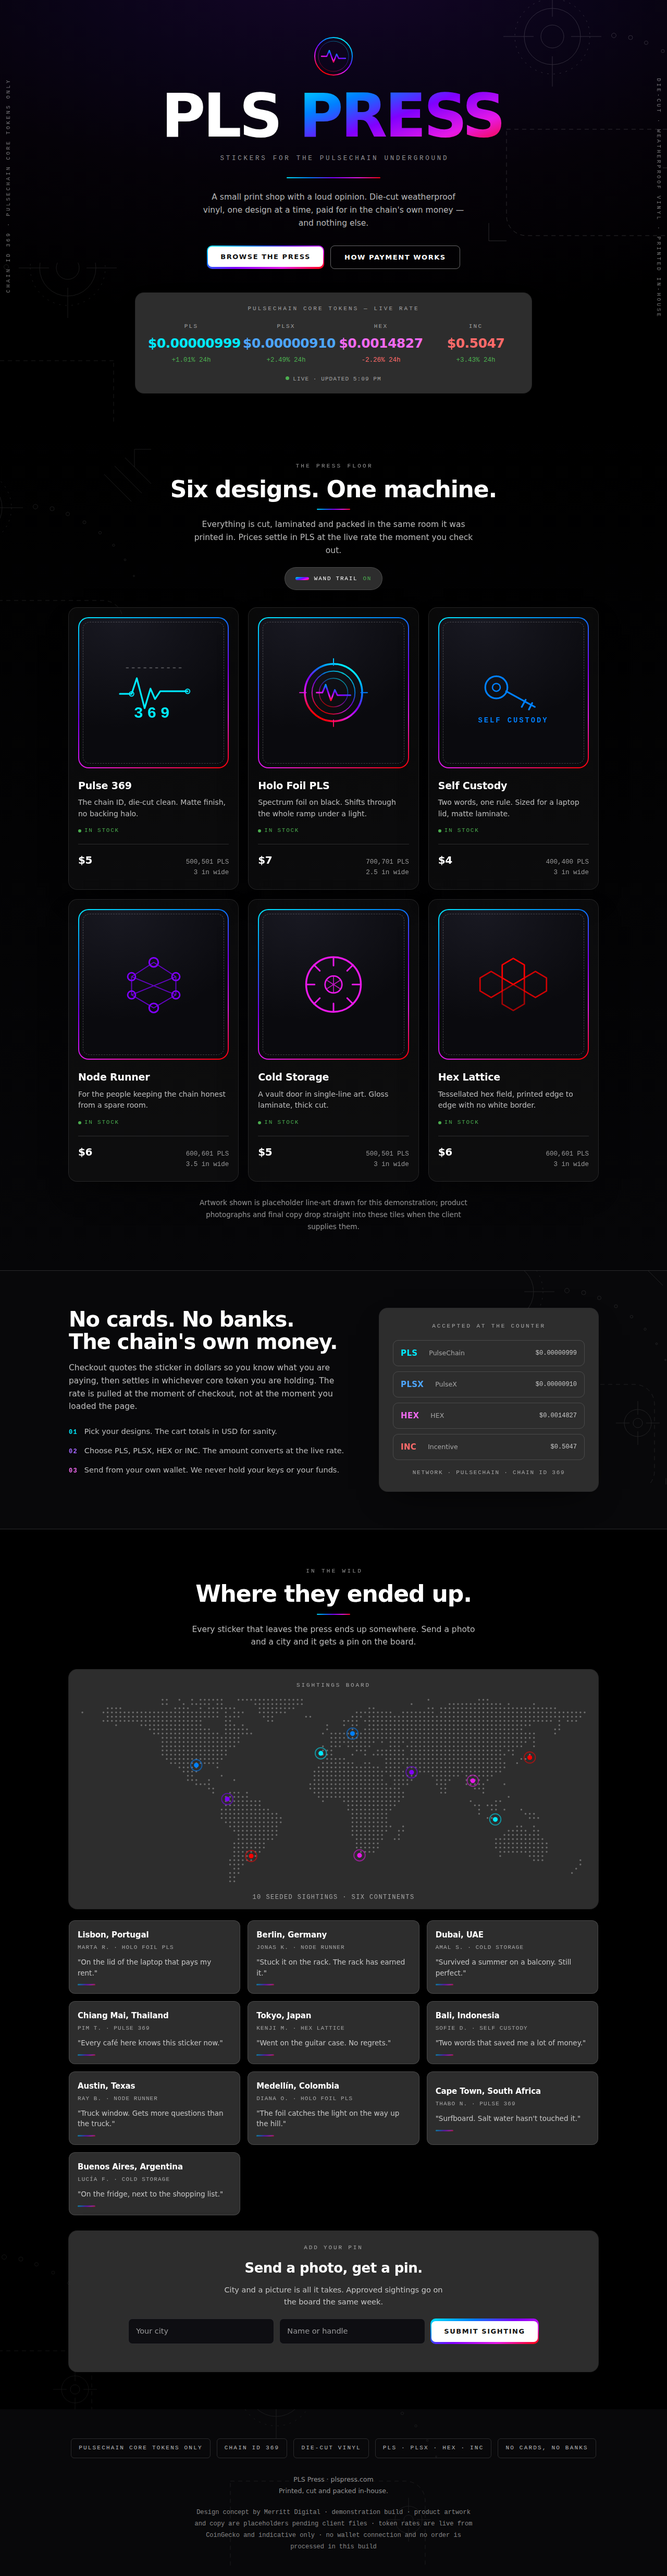
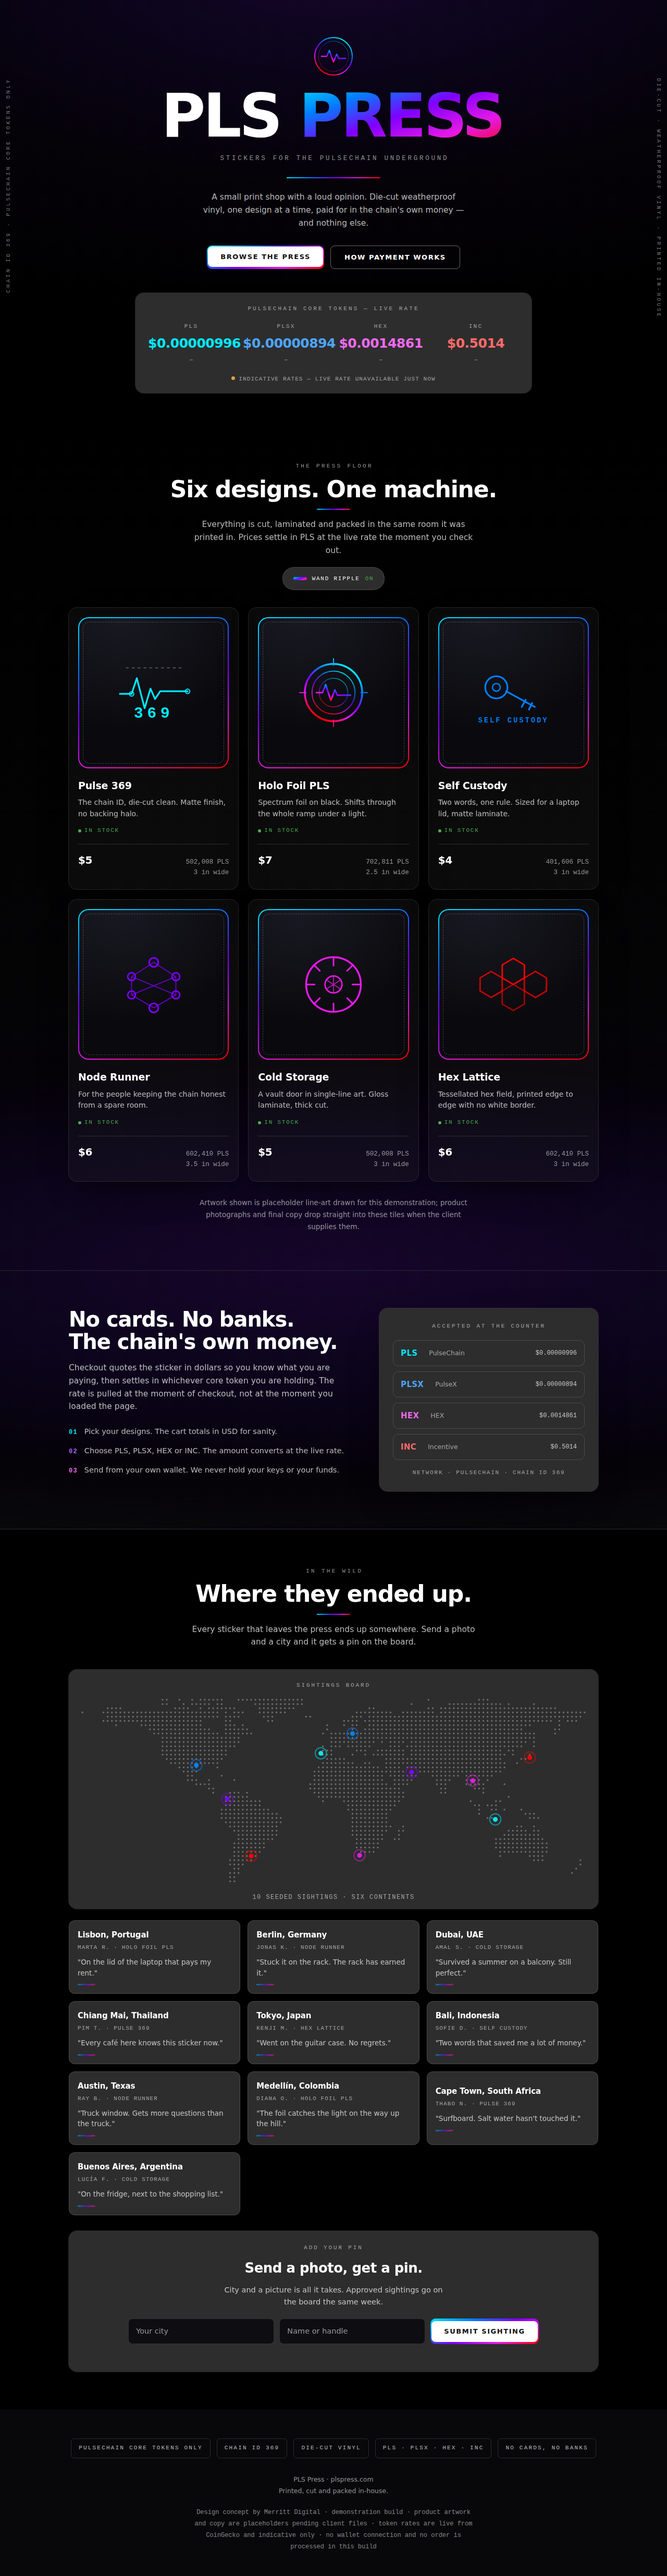
backgrounds + ripple: drop the press-bed ornament, bloom the midpoint, retire the trail
Three client-directed changes.

1. Remove the faint press-bed ornament — the six .press-mark placements, the
   shared #press-motif defs and the .press-mark CSS. The hero gradient is
   untouched.

2. Add a second gradient at the page midpoint, on the hero's own stops. The
   document midpoint falls on the #press -> .counter seam at every gated width,
   so it is drawn as two halves of one ellipse (--mid-bloom-up on #press,
   --mid-bloom-down on .counter) with a FIXED vertical radius, so both halves
   match despite the sections' very different heights. First pass: four tokens
   at the top of the stylesheet tune or revert it in one edit.

   A var() inside a custom property resolves against the element that declares
   it, so the first cut -- one --mid-bloom parameterised by an overridable
   --mid-anchor -- silently bloomed at the centre of #press instead of its
   edge. Pixel-probed after the fix: symmetric about the seam, no seam artefact.

3. Wand trail -> wand ripple. Same canvas, toggle, persistence and
   reduced-motion default; the draw is now discrete expanding rings (two
   concentric strokes, inner one lagging, crest fading as the ring escapes it)
   spawned only once the pointer has travelled 26px, which is what keeps it
   from collapsing back into a trail.

Also fixes a pre-existing dead control: .wand-toggle ships [hidden], but its
own display:inline-flex outranked the UA [hidden] rule, so with JS off the
button rendered and did nothing.
[…]

Changed region(s): [[0.0625, 0.4674, 0.9375, 0.5297]]

diff --git a/index.html b/index.html
@@ -27,6 +27,20 @@
     --sans:-apple-system,'SF Pro Display','Segoe UI',system-ui,'Helvetica Neue',Arial,sans-serif;
     --mono:ui-monospace,'SF Mono','Cascadia Mono','Roboto Mono',Menlo,Consolas,monospace;
     --settle:cubic-bezier(.22,.61,.36,1);
+  /* ── SECOND GRADIENT · midpoint bloom (FIRST PASS — tune these four tokens,
+     or delete this block plus the two `--mid-bloom-*` background layers on
+     #press and .counter to revert cleanly. Same stops as the hero gradient.) */
+  --mid-1:#16062B; --mid-2:#0A0418; --mid-3:#050208;
+  /* Width tracks the section, height is FIXED — both sections are full-bleed, so a
+     fixed vertical radius makes the two halves meet as one ellipse on the seam.
+     Two tokens rather than one parameterised by the anchor: a var() inside a custom
+     property resolves against the element that DECLARES it (:root here), so an
+     anchor overridden further down the tree would never be seen. */
+  --mid-spread:160% 520px;
+  --mid-bloom-up:radial-gradient(var(--mid-spread) at 50% 100%,
+    var(--mid-1) 0%, var(--mid-2) 48%, var(--mid-3) 76%, transparent 100%);
+  --mid-bloom-down:radial-gradient(var(--mid-spread) at 50% 0%,
+    var(--mid-1) 0%, var(--mid-2) 48%, var(--mid-3) 76%, transparent 100%);
   }
   *{box-sizing:border-box;margin:0;padding:0}
   html{scroll-behavior:smooth}
@@ -41,9 +55,6 @@
   /* ── FOIL: gradient-clipped text. Capped at 2 elements per page (kit rule) ── */
   .foil{background:var(--foil);-webkit-background-clip:text;background-clip:text;color:transparent}
 
-  /* ── PRESS-BED ORNAMENT (§3.4 technique, press vocabulary) ── */
-  .press-mark{position:absolute;pointer-events:none;color:var(--ink);opacity:.16}
-  .press-mark svg{display:block}
 
   /* ── THE WINDOW: matte sticker backing (#2D2D2D) on pure black ── */
   .window{background:var(--field-panel);border-radius:16px;
@@ -103,7 +114,7 @@
   .rule-foil{width:64px;height:2px;margin:14px auto 0;background:var(--foil);border-radius:2px}
 
   /* ── THE PRESS FLOOR: sticker grid ── */
-  #press{background:linear-gradient(180deg,var(--field) 0%,#060608 100%)}
+  #press{background:var(--mid-bloom-up), linear-gradient(180deg,var(--field) 0%,#060608 100%)}
   #wand{position:absolute;inset:0;z-index:1;pointer-events:none;opacity:0;
     transition:opacity .3s var(--settle)}
   .press-inner{position:relative;z-index:2}
@@ -112,6 +123,9 @@
     color:var(--ink);border:1px solid var(--hair);border-radius:999px;padding:12px 20px;
     font-family:var(--mono);font-size:11px;letter-spacing:.16em;text-transform:uppercase;
     cursor:pointer;min-height:44px}
+  /* display:inline-flex above outranks the UA [hidden] rule — without this the
+     control is visible but dead when JS never arrives to bind it. */
+  .wand-toggle[hidden]{display:none}
   .wand-toggle .swatch{width:26px;height:6px;border-radius:3px;background:var(--foil);opacity:.35;
     transition:opacity .2s var(--settle)}
   .wand-toggle[aria-pressed="true"] .swatch{opacity:1}
@@ -120,7 +134,7 @@
 
   .shelf{display:grid;grid-template-columns:repeat(auto-fit,minmax(262px,1fr));gap:20px;
     position:relative;z-index:2}
-  /* 20% opaque card face — the near-black press bed and the wand trail read through it.
+  /* 20% opaque card face — the near-black press bed and the wand ripple reads through it.
      Only the backing is translucent; type and artwork stay fully opaque. */
   .item{padding:18px 18px 22px;display:flex;flex-direction:column;
     background:rgba(45,45,45,.2)}
@@ -150,7 +164,7 @@
     font-size:13.5px;line-height:1.7;color:var(--ink-faint);position:relative;z-index:2}
 
   /* ── THE COUNTER: payment band ── */
-  .counter{background:var(--field-deep);border-top:1px solid var(--hair);border-bottom:1px solid var(--hair)}
+  .counter{background:var(--mid-bloom-down), var(--field-deep);border-top:1px solid var(--hair);border-bottom:1px solid var(--hair)}
   .counter-grid{display:grid;grid-template-columns:1.15fr .85fr;gap:28px;align-items:stretch;
     position:relative;z-index:2}
   @media(max-width:840px){.counter-grid{grid-template-columns:1fr}}
@@ -247,26 +261,6 @@
       <stop offset=".4974" stop-color="#8000FF"/><stop offset=".7499" stop-color="#E619E6"/>
       <stop offset=".9991" stop-color="#FF0000"/>
     </linearGradient>
-    <g id="press-motif" stroke="currentColor" fill="none" stroke-width="1">
-      <!-- registration target -->
-      <circle cx="150" cy="140" r="54"/><circle cx="150" cy="140" r="22"/>
-      <circle cx="150" cy="140" r="72" stroke-dasharray="3 9"/>
-      <path d="M150 44v58M150 178v58M56 140h58M186 140h58"/>
-      <!-- crop marks -->
-      <path d="M28 62V28h34M492 28h-34v34M28 498v34h34M492 532h-34v-34"/>
-      <!-- plotter cut path -->
-      <path d="M62 318h336a38 38 0 0 1 38 38v128a38 38 0 0 1-38 38H100a38 38 0 0 1-38-38z"
-            stroke-dasharray="8 7"/>
-      <!-- halftone arc -->
-      <circle cx="330" cy="152" r="3.5"/><circle cx="362" cy="168" r="3"/><circle cx="392" cy="188" r="2.6"/>
-      <circle cx="418" cy="212" r="2.2"/><circle cx="440" cy="240" r="1.8"/><circle cx="457" cy="271" r="1.4"/>
-      <circle cx="300" cy="142" r="4"/><circle cx="268" cy="138" r="4.4"/>
-      <!-- trim hatch -->
-      <path d="M420 60l52 52M440 44l52 52M400 76l52 52"/>
-      <!-- second, smaller target -->
-      <circle cx="404" cy="392" r="26"/><circle cx="404" cy="392" r="9"/>
-      <path d="M404 350v26M404 408v26M362 392h26M420 392h26"/>
-    </g>
   </defs>
 </svg>
 
@@ -274,12 +268,6 @@
   <div class="edge-text edge-l">Chain ID 369 · PulseChain core tokens only</div>
   <div class="edge-text edge-r">Die-cut · weatherproof vinyl · printed in-house</div>
 
-  <div class="press-mark" style="right:-150px;top:-70px" aria-hidden="true">
-    <svg width="520" height="560" viewBox="0 0 520 560"><use href="#press-motif"/></svg>
-  </div>
-  <div class="press-mark" style="left:-190px;bottom:-120px;opacity:.1;transform:scaleX(-1)" aria-hidden="true">
-    <svg width="430" height="430" viewBox="40 130 430 430"><use href="#press-motif"/></svg>
-  </div>
 
   <div class="wrap hero">
     <div class="crest">
@@ -327,9 +315,6 @@
 <!-- ══ THE PRESS FLOOR ══ -->
 <section id="press">
   <canvas id="wand" aria-hidden="true"></canvas>
-  <div class="press-mark" style="left:-170px;top:40px;opacity:.1" aria-hidden="true">
-    <svg width="460" height="500" viewBox="30 20 460 500"><use href="#press-motif"/></svg>
-  </div>
 
   <div class="wrap press-inner">
     <div class="sec-head reveal">
@@ -343,7 +328,7 @@
     <div class="wand-bar">
       <button type="button" class="wand-toggle" id="wand-toggle" aria-pressed="false" hidden>
         <span class="swatch" aria-hidden="true"></span>
-        Wand trail <span class="wand-state">OFF</span>
+        Wand ripple <span class="wand-state">OFF</span>
       </button>
     </div>
 
@@ -467,9 +452,6 @@
 
 <!-- ══ THE COUNTER ══ -->
 <section class="counter" id="counter">
-  <div class="press-mark" style="right:-160px;top:-60px;opacity:.1" aria-hidden="true">
-    <svg width="440" height="470" viewBox="180 40 440 470"><use href="#press-motif"/></svg>
-  </div>
   <div class="wrap">
     <div class="counter-grid">
       <div class="pitch reveal">
@@ -504,9 +486,6 @@
 
 <!-- ══ IN THE WILD ══ -->
 <section id="wild">
-  <div class="press-mark" style="left:-200px;bottom:-140px;opacity:.08" aria-hidden="true">
-    <svg width="480" height="480" viewBox="60 90 480 480"><use href="#press-motif"/></svg>
-  </div>
   <div class="wrap">
     <div class="sec-head reveal">
       <div class="kicker">In the wild</div>
@@ -590,9 +569,6 @@
 </section>
 
 <footer>
-  <div class="press-mark" style="left:50%;top:-120px;margin-left:-260px;opacity:.08" aria-hidden="true">
-    <svg width="520" height="420" viewBox="0 60 520 420"><use href="#press-motif"/></svg>
-  </div>
   <div class="wrap">
     <div class="hallmarks">
       <div class="hallmark">PulseChain core tokens only</div>
@@ -676,7 +652,7 @@
   });
 })();
 
-/* ── WAND TRAIL (the one hero moment, §5.0.5) ────────────────────────────── */
+/* ── WAND RIPPLE (the one hero moment, §5.0.5) ───────────────────────────── */
 (function(){
   var sec = document.getElementById('press');
   var cv  = document.getElementById('wand');
@@ -686,8 +662,9 @@
   var ctx = cv.getContext('2d');
   var reduce = window.matchMedia ? window.matchMedia('(prefers-reduced-motion: reduce)') : {matches:false};
   var STOPS = ['#00EAFF','#0080FF','#8000FF','#E619E6','#FF0000'];
-  var LIFE = 700;
-  var pts = [], raf = 0, on = false, w = 0, h = 0;
+  var LIFE = 900;          /* a ripple wants longer to spread than a trail did */
+  var GAP  = 26;           /* min pointer travel between ripples, in px */
+  var pts = [], raf = 0, on = false, w = 0, h = 0, lx = -1e4, ly = -1e4, seq = 0;
 
   function load(){ try { return localStorage.getItem('plspress-wand'); } catch(e){ return null; } }
   function save(v){ try { localStorage.setItem('plspress-wand', v); } catch(e){} }
@@ -704,34 +681,35 @@
 
   function draw(){
     raf = 0;
-    var now = performance.now(), i, p, age;
+    var now = performance.now(), i, p, age, e, r, k;
     for (i = pts.length - 1; i >= 0; i--) if (now - pts[i].t > LIFE) pts.splice(i, 1);
     ctx.clearRect(0, 0, w, h);
 
-    if (pts.length > 1) {
-      ctx.lineCap = 'round'; ctx.lineJoin = 'round';
-      for (i = 1; i < pts.length; i++) {
-        var a = pts[i-1], b = pts[i];
-        age = (now - b.t) / LIFE;
-        var g = ctx.createLinearGradient(a.x, a.y, b.x, b.y);
-        g.addColorStop(0, STOPS[i % 5]);
-        g.addColorStop(1, STOPS[(i + 1) % 5]);
-        ctx.strokeStyle = g;
-        ctx.globalAlpha = Math.max(0, 1 - age) * 0.85;
-        ctx.lineWidth = Math.max(1, 11 * (1 - age));
-        ctx.beginPath(); ctx.moveTo(a.x, a.y); ctx.lineTo(b.x, b.y); ctx.stroke();
+    ctx.lineCap = 'round';
+    for (i = 0; i < pts.length; i++) {
+      p = pts[i];
+      age = (now - p.t) / LIFE;
+      if (age < 0 || age > 1) continue;
+      e = 1 - Math.pow(1 - age, 3);          /* spreads fast, then eases out */
+      /* two concentric rings, the inner one lagging — that lag is what reads
+         as a ripple rather than a dot that grew. */
+      for (k = 0; k < 2; k++) {
+        r = (7 + p.r * e) - k * 13;
+        if (r <= 0.5) continue;
+        ctx.strokeStyle = STOPS[(p.i + k) % 5];
+        ctx.globalAlpha = Math.max(0, 1 - age) * (k ? 0.30 : 0.62);
+        ctx.lineWidth = Math.max(0.6, (k ? 1.4 : 2.6) * (1 - age));
+        ctx.beginPath(); ctx.arc(p.x, p.y, r, 0, 6.2832); ctx.stroke();
       }
-      for (i = 0; i < pts.length; i += 2) {
-        p = pts[i]; age = (now - p.t) / LIFE;
-        if (age > 1) continue;
-        ctx.globalAlpha = (1 - age) * 0.75;
-        ctx.fillStyle = STOPS[i % 5];
-        ctx.beginPath();
-        ctx.arc(p.x + p.dx * age * 30, p.y + p.dy * age * 30, Math.max(0, 2.4 * (1 - age)), 0, 6.2832);
-        ctx.fill();
+      /* the crest: a soft fill that fades out as the ring escapes it */
+      if (age < 0.55) {
+        ctx.globalAlpha = (0.55 - age) * 0.5;
+        ctx.fillStyle = STOPS[p.i % 5];
+        ctx.beginPath(); ctx.arc(p.x, p.y, 5 * (1 - age / 0.55), 0, 6.2832); ctx.fill();
       }
-      ctx.globalAlpha = 1;
     }
+    ctx.globalAlpha = 1;
+
     if (pts.length) raf = requestAnimationFrame(draw);
   }
 
@@ -740,14 +718,18 @@
     var r = sec.getBoundingClientRect();
     var x = e.clientX - r.left, y = e.clientY - r.top;
     if (x < 0 || y < 0 || x > w || y > h) return;
-    pts.push({x:x, y:y, t:performance.now(), dx:(Math.random()-0.5), dy:(Math.random()-0.5)-0.45});
-    if (pts.length > 28) pts.shift();
+    /* discrete drops, not a smear: only ring out once the pointer has actually
+       travelled. Without this it degenerates back into a trail. */
+    if ((x - lx) * (x - lx) + (y - ly) * (y - ly) < GAP * GAP) return;
+    lx = x; ly = y;
+    pts.push({x:x, y:y, t:performance.now(), r:46 + Math.random() * 26, i:(seq++) % 5});
+    if (pts.length > 14) pts.shift();
     if (!raf) raf = requestAnimationFrame(draw);
   }
 
   function stop(){
     if (raf) { cancelAnimationFrame(raf); raf = 0; }
-    pts = []; ctx.clearRect(0, 0, w, h);
+    pts = []; lx = ly = -1e4; ctx.clearRect(0, 0, w, h);
   }
 
   function set(v){

diff --git a/DESIGN-NOTES.md b/DESIGN-NOTES.md
@@ -39,9 +39,10 @@ holographic foil. A holo foil is a sticker. That is the whole design.
 3. **Green affirm chip** → in-stock badges, footer hallmarks, the live-feed dot. Their own device.
 4. **Kiss-cut die line** → dashed contour inset on every sticker face; peel-lift on
    hover/focus/active (`translateY(-5px) rotate(-1.2deg)`).
-5. **Press-bed ornament** → §3.4 technique with a press vocabulary instead of filigree: registration
-   targets, crop marks, plotter cut-paths, halftone arcs. One motif (`#press-motif`), deployed
-   5× at different crops/mirrors/opacities (.16 → .10 → .08).
+5. ~~**Press-bed ornament**~~ → *removed 2026-08-27 at the client's request.* It was the §3.4
+   technique in a press vocabulary — registration targets, crop marks, plotter cut-paths, halftone
+   arcs, one motif deployed 5× at .16 → .08. The grammar now carries on the die lines, the foil
+   edges and the halftone map alone. Restore with `git revert` if it is wanted back.
 6. **Voice inversion** — the bridge uses zero serif and the client asked for a large bold header,
    so **heavy system sans = things of value, mono = apparatus**. This deliberately inverts the
    kit's serif-is-value rule of thumb, per §III's adaptation clause. System stacks only (law 3).
@@ -60,6 +61,27 @@ holographic foil. A holo foil is a sticker. That is the whole design.
 - **Simple, easy to use** — one screen per idea, six products, no menus, no cart ceremony.
 - **PulseChain core tokens only** — PLS, PLSX, HEX, INC, chain ID 369, priced live.
 
+## Background & motion revisions (2026-08-27, client-directed)
+
+1. **Ornament removed** (above). Nothing else about the backgrounds changed — the hero gradient is
+   untouched.
+2. **A second gradient at the page midpoint.** The document midpoint lands on the `#press` →
+   `.counter` seam at every gated width (1280: seam 2435 / mid 2471; 390: seam 4947 / mid 4481,
+   inside the bloom's 520px reach). It is drawn as two halves of one ellipse — `--mid-bloom-up`
+   anchored to the bottom of `#press`, `--mid-bloom-down` to the top of `.counter` — sharing the
+   hero's exact stops. The vertical radius is a **fixed length**, not a percentage, so both halves
+   are the same size and meet cleanly despite the two sections having very different heights.
+   **First pass:** the four tokens (`--mid-1..3`, `--mid-spread`) sit together at the top of the
+   stylesheet; tune or delete them to adjust or revert.
+   *Gotcha worth keeping:* a `var()` inside a custom property resolves against the element that
+   **declares** it, so a single `--mid-bloom` parameterised by an overridable `--mid-anchor` silently
+   used `:root`'s value and bloomed at the centre of `#press` instead of its edge. Two tokens, not one.
+3. **Wand trail → wand ripple.** Same canvas, same toggle, same persistence and reduced-motion
+   defaults; the drawing changed from a tapering gradient polyline to discrete expanding rings —
+   two concentric strokes with the inner one lagging, plus a crest that fades as the ring escapes
+   it. Ripples only spawn once the pointer has travelled 26px, which is what stops it collapsing
+   back into a trail. `LIFE` 700ms → 900ms.
+
 ## Law 4 — the live element
 
 CoinGecko keyless (`access-control-allow-origin: *`), ids `pulsechain`, `pulsex`, `hex`,
@@ -73,11 +95,11 @@ live rate**. Seeded values in markup; every write guarded; both terminal states 
 |---|---|
 | Three-viewport width law | 390/834/1280 — `scrollWidth` == viewport exactly, 0 JS errors |
 | Single file, zero dependencies | 59kB, one file, no CDN/webfont/build step |
-| CWV (390, 4× CPU throttle, worst of 3) | **LCP 464ms**, **CLS 0.0040**, flat through a full scroll cycle |
-| JS disabled | 6 products, 10 sightings, 10 pins, 1,672 map dots, seeded prices, no dead controls |
+| CWV (390, 4× CPU throttle, worst of 3) | **LCP 356ms**, **CLS 0.0000**, flat through a full scroll cycle |
+| JS disabled | 6 products, 10 sightings, 10 pins, 1,672 map dots, seeded prices, wand control genuinely `display:none` |
 | `prefers-reduced-motion` | 12 reveals all land on end-states, wand defaults off, canvas opacity 0 |
 | Touch targets @390 | every interactive element ≥44px tall |
-| Slop gate (`impeccable@3.3.1`) | 9 findings, all three categories documented in `.impeccable/config.json`; every genuine finding fixed |
+| Slop gate (`impeccable@3.3.1`) | 10 findings, all four categories documented in `.impeccable/config.json`; every genuine finding fixed |
 
 Ornament bleeds off-edge at all three widths and is contained by each section's own
 `overflow:hidden` — that is why the widths match exactly despite elements extending past the
